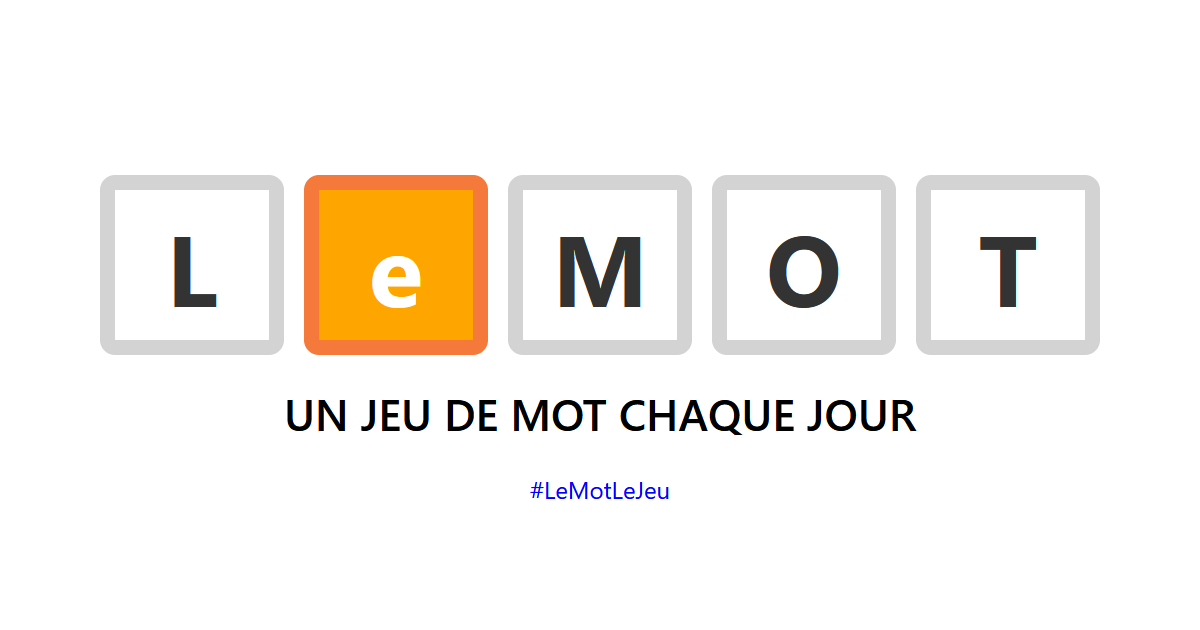
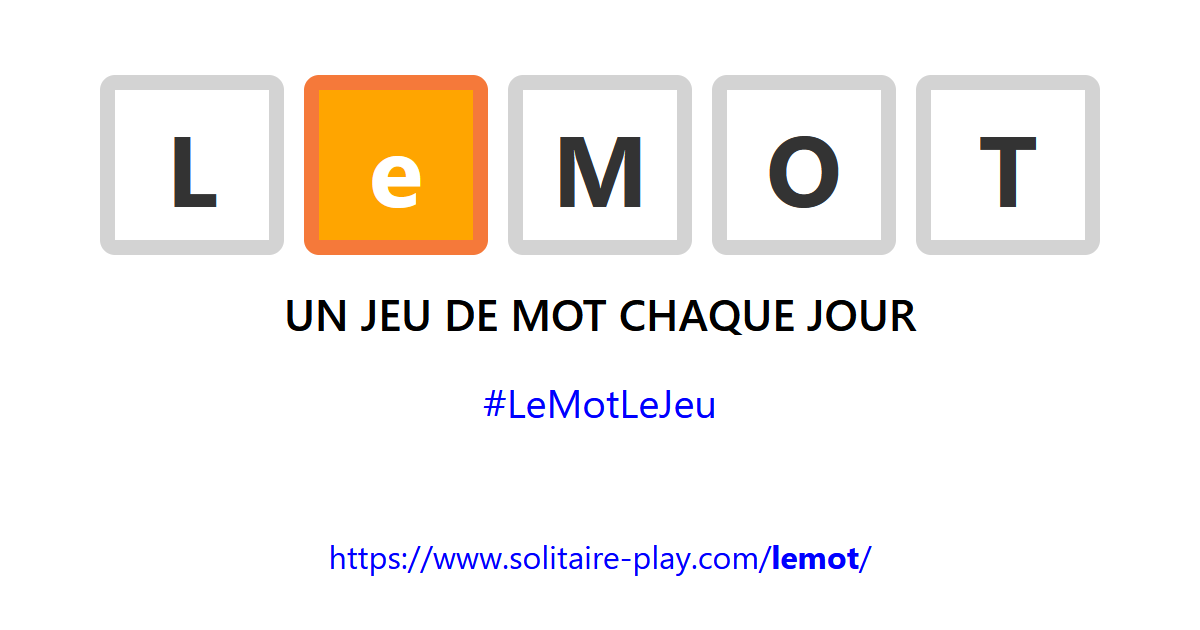
Ajout billet "LeMOT to play WORDLE in French".

diff --git a/src/_posts/2022/2022-01-11-le-mot-play-wordle-in-french.md b/src/_posts/2022/2022-01-11-le-mot-play-wordle-in-french.md
@@ -1,0 +1,60 @@
+---
+date: 2022-01-11 13:36:08 +02:00
+lang: en-US
+tags: [ javascript, jeux ]
+title: LeMOT to play WORDLE in French
+cover:
+  image: /public/2022/lemot-jouer.png
+  link: https://www.solitaire-play.com/lemot/
+  text: LeMOT - Un jeu de mot chaque jour
+excerpt: This weekend, I started a French version of WORDLE. I developed my own code in Vanilla JS and most importantly, I found a great name "LeMOT", and even a slogan "One Word, One Day"!
+---
+
+Some time ago, I saw some funny pictures appear on Twitter. It looked a bit like GitHub's contributions, but over a single week?
+
+I finally figured out what it was and discovered [WORDLE](https://powerlanguage.co.uk/wordle/), a new word game, a kind of cross between Mastermind and Hangman, created by Josh Wardle. Wordle / Wardle: clever!
+
+So of course, I played too, or rather I tried to play... Because I quickly had to admit that my English vocabulary was not enough to win regularly. Although I'm proud to follow series or movies in VO with English subtitles! Or maybe I have a big problem when it comes to 5 letter English words?
+
+2 or 3 years ago, I had collected some French word lists to write a program that would allow me to optimize my Scrabble level (or cheat, if you want). In the end, I had never programmed anything.
+
+But this weekend, after getting up at dawn around 10am, I went for it! And just after midnight, I had already code something pretty good that I was able to put online on my solitaire games site: [https://www.solitaire-play.com/lemot/](https://www.solitaire-play.com/lemot/). I was very happy because I didn't just adapt Josh Wardle's code, but I wrote my own version in Vanilla JS. And on top of that, I had come up with a great name: "**LeMOT**". WORD-Le => Le-WORD => Le-MOT !
+
+And I even had an idea for a slogan to complete the title: "One Word, One Day", inspired by the french TV show "One Book, One Day".
+
+After that I went to sleep and the next day I just kept going and made a lot of improvements.
+
+* Adjusted the backup of the game in progress, to be able to come back to it later when you are stuck.
+* Added a "beta version" watermark under the game title because I'm afraid of bugs :)
+* Minimized the JavaScript and CSS files to optimize loading.
+* Displayed the messages in some sort of "flash" popup (useful to tell if a word is unknown or to inform that the result at the end of the game has been copied to the clipboard to be pasted in Twitter or WhatsApp).
+* Updated the page content and the meta and Open Graph tags, with an image inspired by WORDLE.
+* Modified the export of the results in emoji to add the mention "(beta)" and a hashtag "#LeMotLeJeu".
+
+This kept me busy until early afternoon. I didn't get back to it until the evening, to properly handle the color clues when there are duplicate letters, either in the word to guess or in the answers entered.
+
+It was a lot of fun to do and no doubt I will continue to work on it.
+
+Already, I have at least a couple of things to do to get my game right.
+
+* On some phones, the last row of keys of the keyboard is not completely visible (especially when there are several tabs in a group and that partly hides the bottom of the keyboard).
+* To code quickly, I used Unicode characters to represent icons. They should be replaced by SVG to make it look nicer.
+* Check at what time the word is renewed. I use UTC dates and therefore in France, it should be at 1am.
+
+Then there are a few things to add to try to reproduce the original game's features as well as possible.
+
+* Statistics: to make the game more attractive and encourage people to keep playing and seek for a great winning streak.
+* Have a button to explicitly share your result.
+* Handle settings to manage color sets adapted for people with visual difficulties or the "dark mode".
+
+Another interesting task will be to limit the list of words offered as guesses. In the original version, Josh Wardle selected only 20% of the 12500 English 5-letter words to be among the happy few to guess. I'm not sure why he did this, and on what criteria. Probably their frequency of use. So, how can I do this in French?
+
+In the meantime, feel free to test your French vocabulary on [LeMOT - Un jeu de mot chaque jour](https://www.solitaire-play.com/lemot/), to see if you can do better than me!
+
+[![LeMOT](/public/2022/lemot2.png "Who can do better?")](https://www.solitaire-play.com/lemot/)
+
+<div class="encart">
+
+Version en français : {% goto_fr "LeMOT pour jouer à WORDLE en français", "2022-01-10-le-mot-wordle-en-francais" %}.
+
+</div>

diff --git a/src/_posts/2022/2022-01-10-le-mot-wordle-en-francais.md b/src/_posts/2022/2022-01-10-le-mot-wordle-en-francais.md
@@ -15,7 +15,7 @@ J'ai fini par comprendre ce que c'était et j'ai alors découvert [WORDLE](https
 
 Alors bien entendu, j'ai joué moi aussi, ou plutôt j'ai essayé de jouer... Parce que j'ai assez vite dû me rendre à l'évidence et reconnaitre que mon vocabulaire en anglais n'était pas assez fourni pour réussir à gagner régulièrement. Alors que je suis tout fier de pouvoir suivre des séries ou des films en VO avec les sous-titres en anglais ! Ou alors j'ai une grosse lacune en ce qui concerne les mots anglais de 5 lettres ?
 
-Il y a 2 ou 3 ans, j'avais récupéré quelques listes de mots en français pour développer un programme qui me permettrait d'optimiser mon jeu au Scrabble (ou tricher si on veut). Mais finalement, je n'avais jamais rien programmé.
+Il y a 2 ou 3 ans, j'avais récupéré quelques listes de mots en français pour développer un programme qui me permettrait d'optimiser mon jeu au Scrabble (ou tricher si on veut). Finalement, je n'avais jamais rien programmé.
 
 Mais ce week-end, après m'être levé aux aurores vers 10h du matin, je me suis lancé ! Et juste après minuit, j'avais déjà réussi à coder un truc pas mal du tout que j'ai pu mettre en ligne sur mon site de jeux de solitaires : [https://www.solitaire-play.com/lemot/](https://www.solitaire-play.com/lemot/). J'étais super-content parce que je ne m'étais pas contenté d'adapter le code de Josh Wardle, mais que j'avais écrit ma propre version en Vanilla JS. Et en plus, j'avais trouvé un super nom : "**LeMOT**". WORD-Le => Le-WORD => Le-MOT !
 
@@ -51,3 +51,9 @@ Un autre chantier intéressant sera de limiter la liste des mots proposés comme
 En attendant, n'hésitez pas et allez tester votre vocabulaire français sur [LeMOT - Un jeu de mot chaque jour](https://www.solitaire-play.com/lemot/), pour voir si vous pouvez faire mieux que moi !
 
 [![LeMOT](/public/2022/lemot2.png "Qui fait mieux ?")](https://www.solitaire-play.com/lemot/)
+
+<div class="encart">
+
+English version: {% goto_en "LeMOT to play WORDLE in French", "2022-01-11-le-mot-play-wordle-in-french" %}.
+
+</div>
